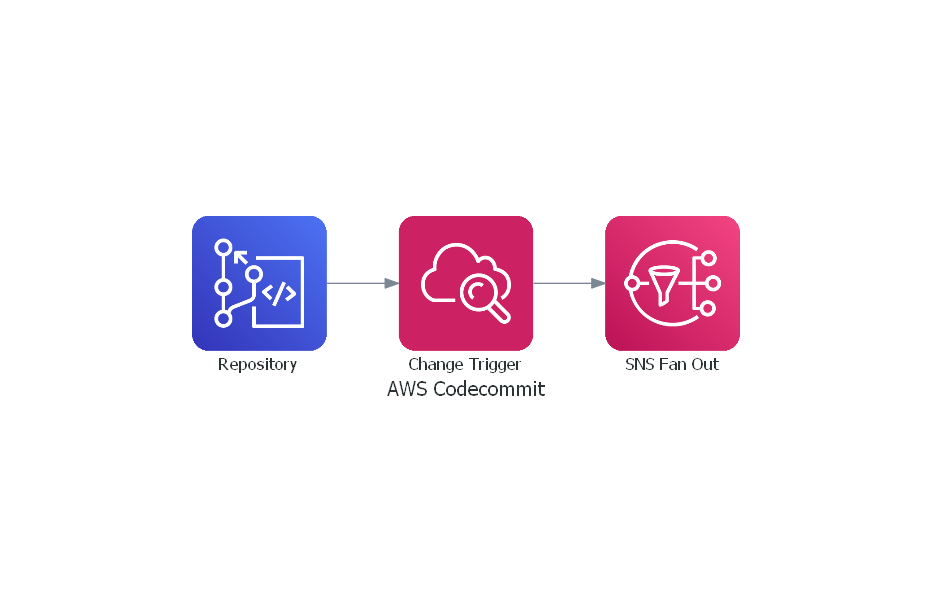
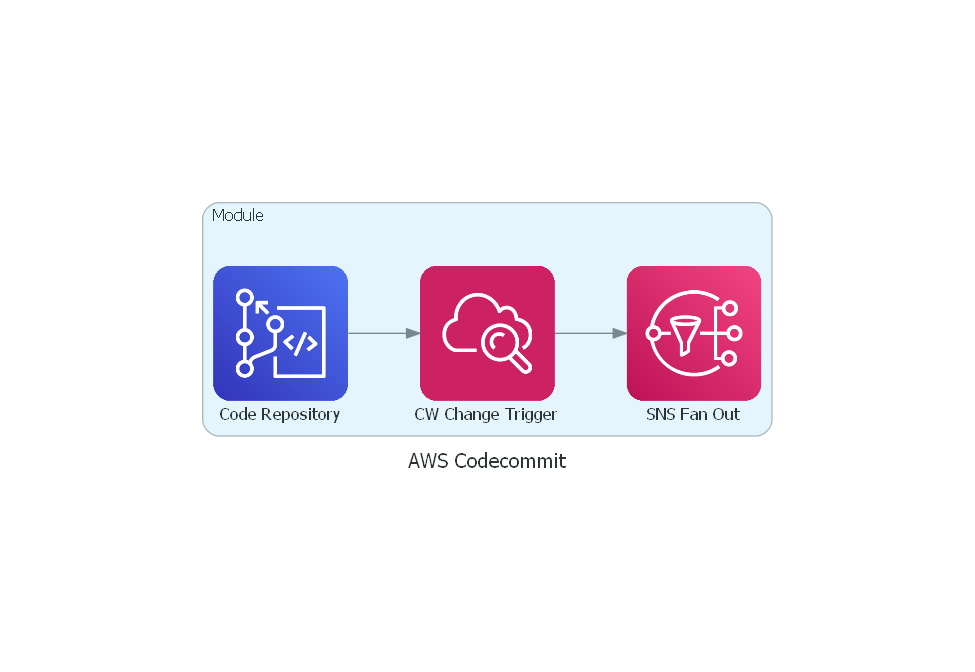
better diagram

Changed region(s): [[0.1867, 0.3, 0.809, 0.72]]

diff --git a/diagram/diagram.py b/diagram/diagram.py
@@ -5,4 +5,5 @@ from diagrams.aws.integration import SNS
 from diagrams.aws.management import Cloudwatch
 
 with Diagram("AWS Codecommit", show=False):
-    Codecommit("Repository") >> Cloudwatch("Change Trigger") >> SNS("SNS Fan Out")
+    with Cluster("Module"):
+        Codecommit("Code Repository") >> Cloudwatch("CW Change Trigger") >> SNS("SNS Fan Out")

diff --git a/README.md b/README.md
@@ -15,7 +15,7 @@ It's 100% Open Source and licensed under the [APACHE2](LICENSE).
 
 ## Usage
 
-![alt text](./diagram/codecommit.png)
+![alt text](./diagram/aws_codecommit.png)
 
 Include this repository as a module in your existing Terraform code:
 
